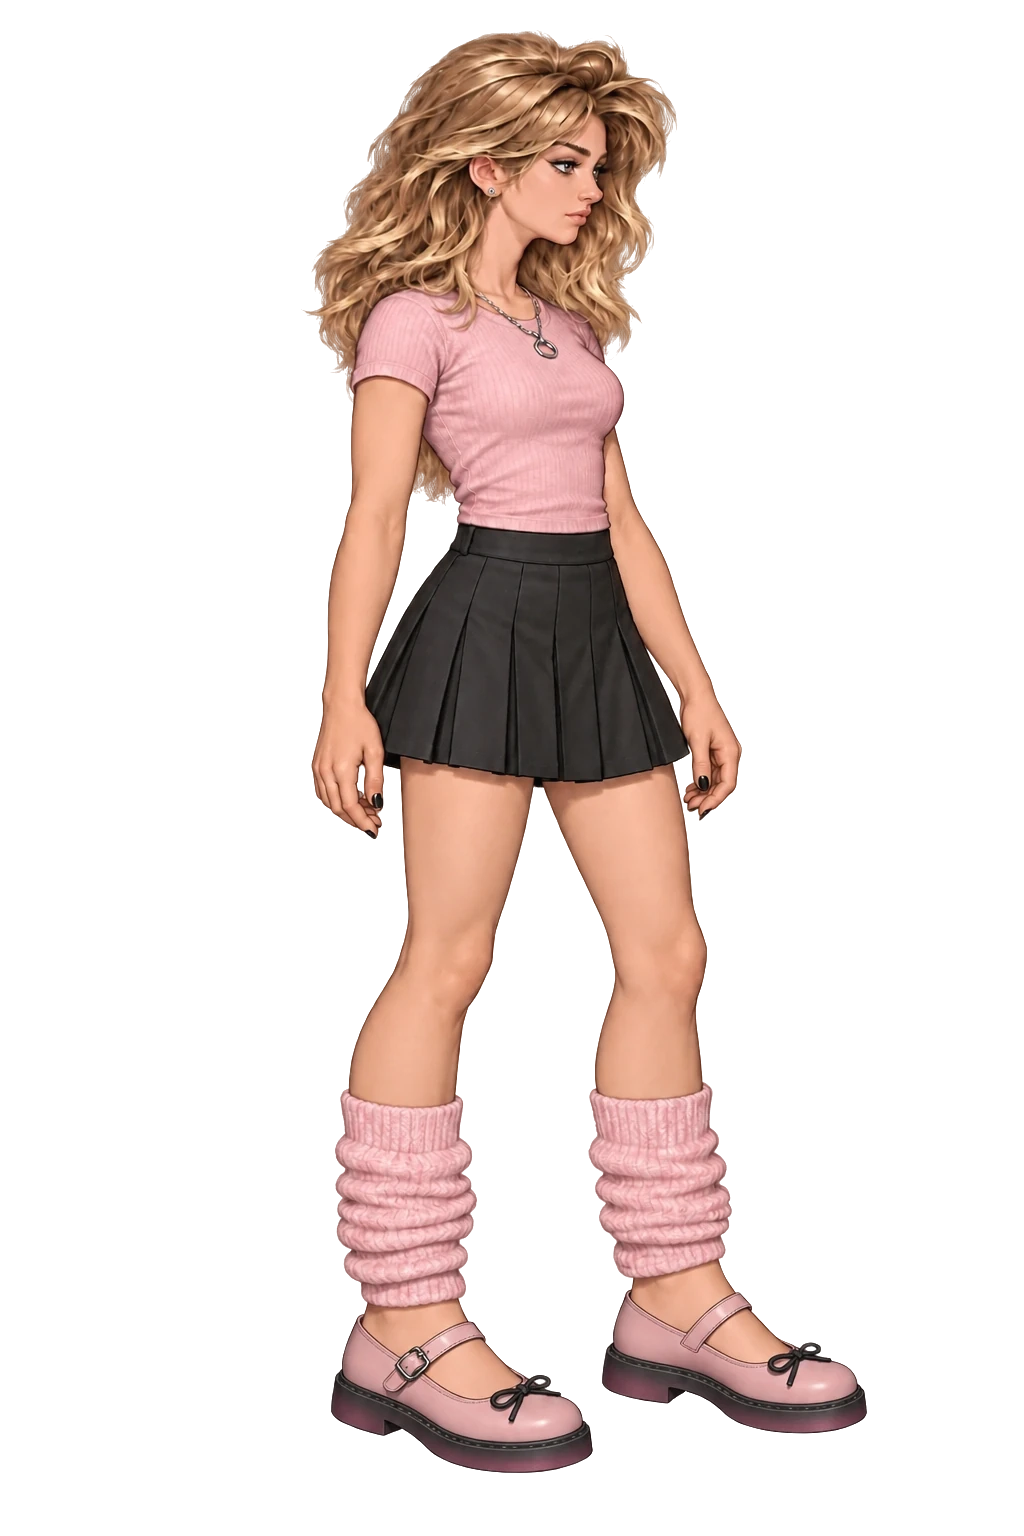
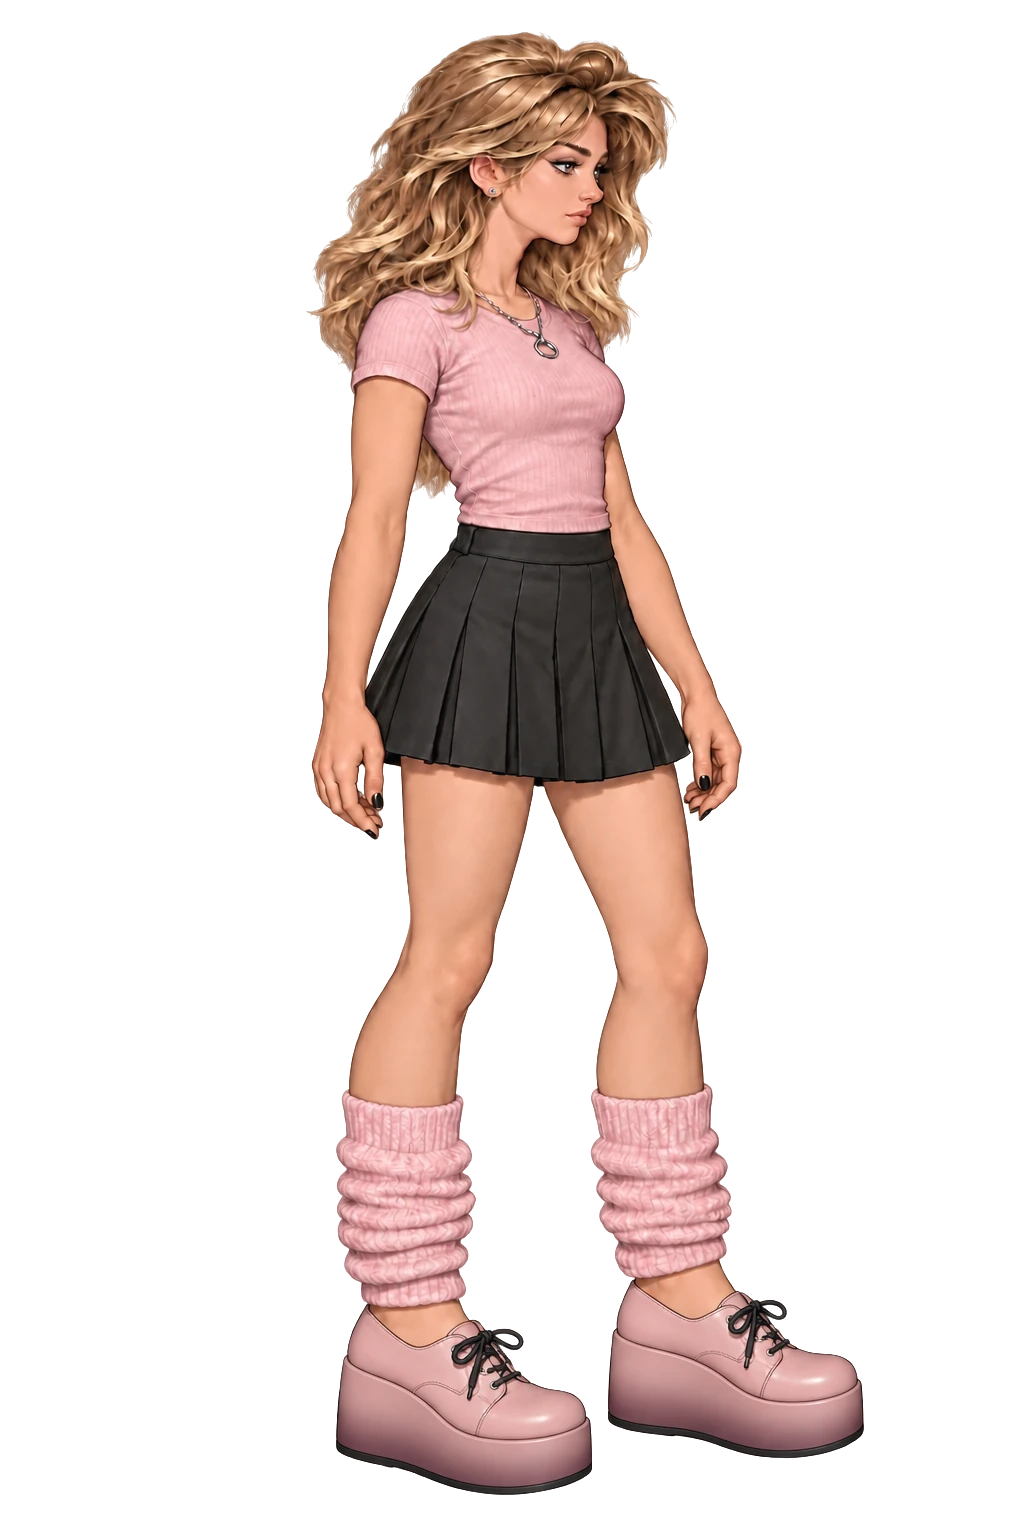
Apply C's selected lace-up wedge platforms

diff --git a/game.js b/game.js
@@ -36,7 +36,7 @@ const PEOPLE = {
 };
 
 const order = ["C", "A", "S", "E"];
-const ART_REVISION = "case-20261010-37";
+const ART_REVISION = "case-20261010-38";
 for (const person of Object.values(PEOPLE)) {
   for (const key of Object.keys(person.art)) person.art[key] += `?v=${ART_REVISION}`;
 }

diff --git a/index.html b/index.html
@@ -84,7 +84,7 @@
     </section>
   </main>
 
-  <script src="game.js?v=case-20261010-37"></script>
+  <script src="game.js?v=case-20261010-38"></script>
 </body>
 </html>
 
